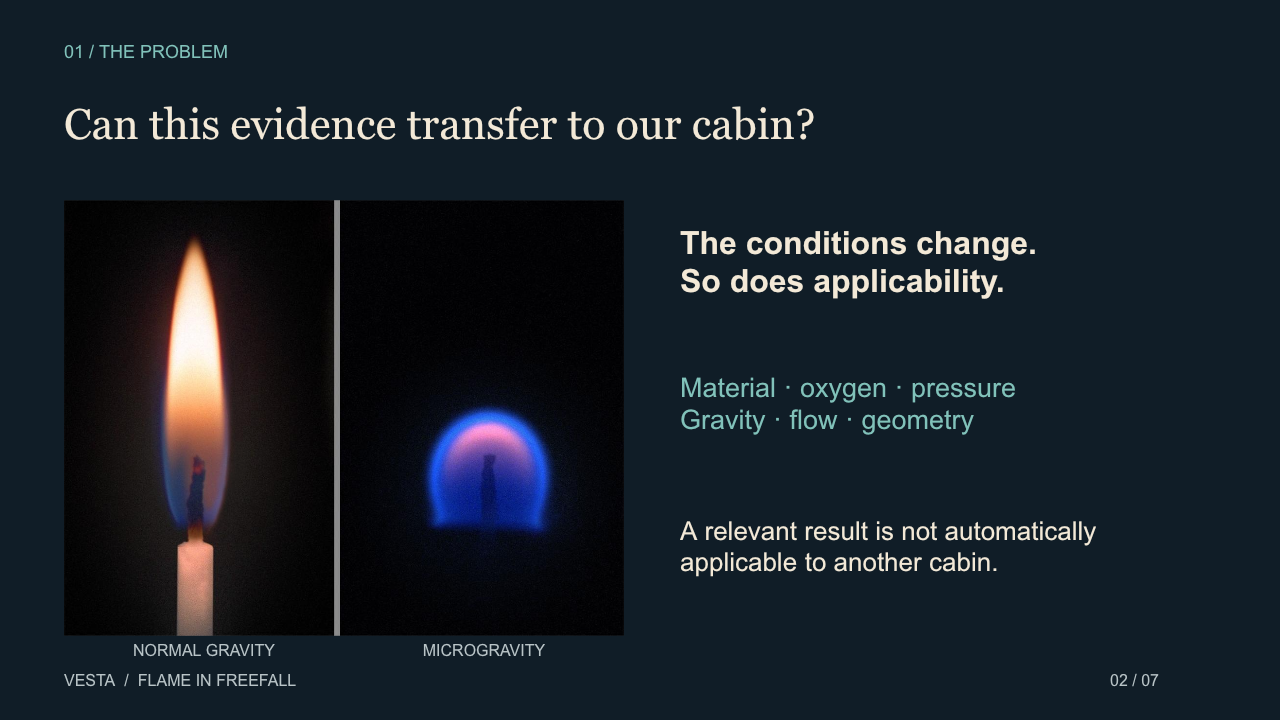
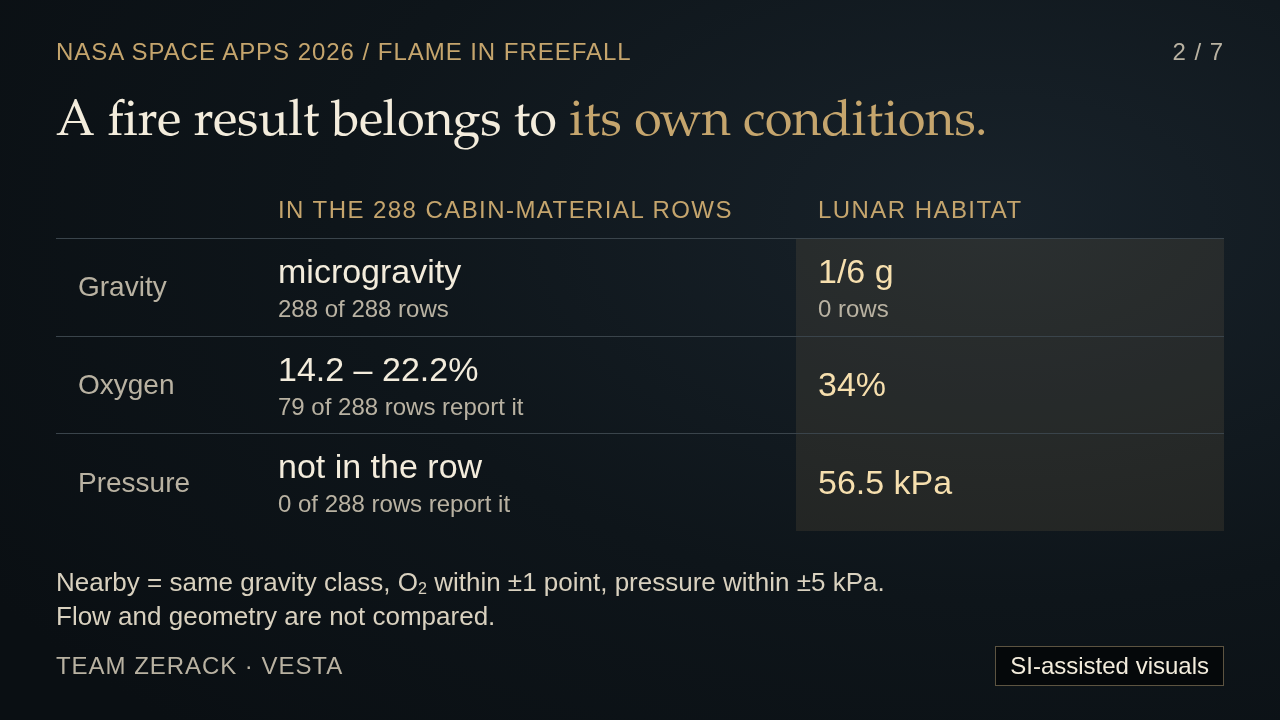
Rebuild the seven-slide deck around the finding, one claim per slide

diff --git a/web/presentation/index.html b/web/presentation/index.html
@@ -1,18 +1,18 @@
 <!doctype html>
 <html lang="en"><head><meta charset="utf-8"><meta name="viewport" content="width=device-width,initial-scale=1"><title>VESTA — seven-slide presentation</title><link rel="stylesheet" href="viewer.css"><script src="viewer.js" defer></script></head>
 <body><a class="skip" href="#slides">Skip to slides</a><header><a href="../">Back to VESTA</a><nav aria-label="Slide navigation"><button type="button" id="previous" aria-controls="slides">Previous</button><output id="count" aria-live="polite" aria-atomic="true">Slide 1 of 7</output><button type="button" id="next" aria-controls="slides">Next</button></nav><button type="button" id="print">Print slides</button></header>
-<main id="slides" tabindex="-1"><section class="slide active" id="slide-1" aria-label="Slide 1: VESTA">
-<img src="vesta-slide-1.png" alt="Slide 1: VESTA" width="1280" height="720" fetchpriority="high" decoding="async">
-<details><summary>Speaker notes and sources — VESTA</summary><p>VESTA asks a practical question: which fire result applies to this cabin? We built a source-linked review tool for NASA Space Apps’ Flame in Freefall challenge. Our contribution is making evidence, condition differences and missing information inspectable. VESTA is a decision-support prototype, not certified flight software. The illustrated mascot is a presentation device, not hardware.</p><h2>Sources</h2><ul><li><a href="https://www.spaceappschallenge.org/2026/challenges/flame-in-freefall/">https://www.spaceappschallenge.org/2026/challenges/flame-in-freefall/</a></li><li><a href="https://itzjk.github.io/vesta/">https://itzjk.github.io/vesta/</a></li></ul></details></section><section class="slide" id="slide-2" aria-label="Slide 2: Can this evidence transfer to our cabin?" hidden>
-<img src="vesta-slide-2.png" alt="Slide 2: Can this evidence transfer to our cabin?" width="1280" height="720" loading="lazy" decoding="async">
-<details><summary>Speaker notes and sources — Can this evidence transfer to our cabin?</summary><p>Spacecraft-fire studies use different materials, atmospheres, gravity levels, flow conditions and geometries. Reduced buoyancy changes combustion, but microgravity flames are not universally spherical or soot-heavy. NASA’s exploration-atmosphere discussion illustrates why lower pressure and higher oxygen require careful review. VESTA helps compare recorded conditions with a selected cabin; apparent relevance alone does not establish applicability or safety.</p><h2>Sources</h2><ul><li><a href="https://ntrs.nasa.gov/citations/20240003211">https://ntrs.nasa.gov/citations/20240003211</a></li><li><a href="https://www.nasa.gov/wp-content/uploads/2025/07/advanced-combustion-via-microgravity-experiments-acme.pdf">https://www.nasa.gov/wp-content/uploads/2025/07/advanced-combustion-via-microgravity-experiments-acme.pdf</a></li><li><a href="https://ntrs.nasa.gov/citations/20150002322">https://ntrs.nasa.gov/citations/20150002322</a></li><li><a href="https://images.nasa.gov/details/GRC-1998-C-00485">https://images.nasa.gov/details/GRC-1998-C-00485</a></li></ul></details></section><section class="slide" id="slide-3" aria-label="Slide 3: One cabin. Traceable evidence." hidden>
-<img src="vesta-slide-3.png" alt="Slide 3: One cabin. Traceable evidence." width="1280" height="720" loading="lazy" decoding="async">
-<details><summary>Speaker notes and sources — One cabin. Traceable evidence.</summary><p>The collection contains 24 investigations, 22 source tables, 1,989 source-table rows and 822 findings. These are different counting units: a row can describe a sample, series or session, so we do not claim 1,989 independent burns. Fifteen indexed materials crossed with prevention, detection and suppression produce 45 coverage questions. Reviewers can filter questions, findings and rows separately.</p><h2>Sources</h2><ul><li><a href="https://github.com/itzjk/vesta/blob/ef31f41d4148da99b2701a2243e31252fc290e0a/web/data/meta.json">https://github.com/itzjk/vesta/blob/ef31f41d4148da99b2701a2243e31252fc290e0a/web/data/meta.json</a></li><li><a href="https://github.com/itzjk/vesta/blob/ef31f41d4148da99b2701a2243e31252fc290e0a/web/js/core/index.js">https://github.com/itzjk/vesta/blob/ef31f41d4148da99b2701a2243e31252fc290e0a/web/js/core/index.js</a></li><li><a href="https://itzjk.github.io/vesta/api/v1/index.json">https://itzjk.github.io/vesta/api/v1/index.json</a></li></ul></details></section><section class="slide" id="slide-4" aria-label="Slide 4: Change gravity. Check the coverage." hidden>
-<img src="vesta-slide-4.png" alt="Slide 4: Change gravity. Check the coverage." width="1280" height="720" loading="lazy" decoding="async">
-<details><summary>Speaker notes and sources — Change gravity. Check the coverage.</summary><p>This demonstration holds oxygen at 21 percent and pressure at 101.4 kilopascals while changing only gravity from microgravity to one-sixth g. Across the same 45 material–concern questions, nearby evidence falls from three to zero; other conditions increase from 21 to 24; no-source questions remain 21. These are reproducible coverage calculations, not measured fire behavior, hazard probabilities or proof that materials are unsafe.</p><h2>Sources</h2><ul><li><a href="https://github.com/itzjk/vesta/blob/ef31f41d4148da99b2701a2243e31252fc290e0a/web/js/core/status.js">https://github.com/itzjk/vesta/blob/ef31f41d4148da99b2701a2243e31252fc290e0a/web/js/core/status.js</a></li><li><a href="https://github.com/itzjk/vesta/blob/ef31f41d4148da99b2701a2243e31252fc290e0a/web/js/core/match.js">https://github.com/itzjk/vesta/blob/ef31f41d4148da99b2701a2243e31252fc290e0a/web/js/core/match.js</a></li></ul></details></section><section class="slide" id="slide-5" aria-label="Slide 5: Every conclusion should be inspectable" hidden>
-<img src="vesta-slide-5.png" alt="Slide 5: Every conclusion should be inspectable" width="1280" height="720" loading="lazy" decoding="async">
-<details><summary>Speaker notes and sources — Every conclusion should be inspectable</summary><p>BASS-II row PSI-25:1 records a 100-micrometre PMMA film and 22.2 percent oxygen. Its pressure column is absent: VESTA identifies 101.3 kilopascals as a facility-based assumption. Separately, quoted finding S-VENT-01 links to the original NASA document and cached text lines 510–514, not PDF pages. A review package preserves the result and context; rechecking establishes computational consistency, not independent scientific validity.</p><h2>Sources</h2><ul><li><a href="https://psi.nasa.gov/physci/repo/data/investigations/PSI-25">https://psi.nasa.gov/physci/repo/data/investigations/PSI-25</a></li><li><a href="https://www.nasa.gov/wp-content/uploads/2016/05/np-2015-10-034-jsc_combustion_in_reduced_gravity-iss-mini-book-011116-508.pdf">https://www.nasa.gov/wp-content/uploads/2016/05/np-2015-10-034-jsc_combustion_in_reduced_gravity-iss-mini-book-011116-508.pdf</a></li><li><a href="https://github.com/itzjk/vesta/blob/c5ca71deb825e97c7eb5b9d9dd3c090a6c660330/research/raw/nasa/researchers-guide-combustion.txt?plain=1#L510-L514">https://github.com/itzjk/vesta/blob/c5ca71deb825e97c7eb5b9d9dd3c090a6c660330/research/raw/nasa/researchers-guide-combustion.txt?plain=1#L510-L514</a></li><li><a href="https://github.com/itzjk/vesta/blob/ef31f41d4148da99b2701a2243e31252fc290e0a/docs/evidence-receipt.md">https://github.com/itzjk/vesta/blob/ef31f41d4148da99b2701a2243e31252fc290e0a/docs/evidence-receipt.md</a></li></ul></details></section><section class="slide" id="slide-6" aria-label="Slide 6: Relevant evidence, with explicit boundaries" hidden>
-<img src="vesta-slide-6.png" alt="Slide 6: Relevant evidence, with explicit boundaries" width="1280" height="720" loading="lazy" decoding="async">
-<details><summary>Speaker notes and sources — Relevant evidence, with explicit boundaries</summary><p>Matching requires the same gravity class, oxygen within one percentage point and pressure within five kilopascals. Flow, geometry, thickness, ignition and suppressant configuration remain outside those matching rules. Missing and inferred conditions stay explicit. Published relevance weights explain ordering, not risk. Quote checks establish text correspondence, not scientific correctness. The website’s analysis roles are deterministic software; its API and MCP tools expose those computations.</p><h2>Sources</h2><ul><li><a href="https://github.com/itzjk/vesta/blob/ef31f41d4148da99b2701a2243e31252fc290e0a/web/js/core/match.js">https://github.com/itzjk/vesta/blob/ef31f41d4148da99b2701a2243e31252fc290e0a/web/js/core/match.js</a></li><li><a href="https://github.com/itzjk/vesta/blob/ef31f41d4148da99b2701a2243e31252fc290e0a/web/js/core/rank.js">https://github.com/itzjk/vesta/blob/ef31f41d4148da99b2701a2243e31252fc290e0a/web/js/core/rank.js</a></li><li><a href="https://github.com/itzjk/vesta/blob/ef31f41d4148da99b2701a2243e31252fc290e0a/mcp/README.md">https://github.com/itzjk/vesta/blob/ef31f41d4148da99b2701a2243e31252fc290e0a/mcp/README.md</a></li></ul></details></section><section class="slide" id="slide-7" aria-label="Slide 7: Evidence before action" hidden>
-<img src="vesta-slide-7.png" alt="Slide 7: Evidence before action" width="1280" height="720" loading="lazy" decoding="async">
-<details><summary>Speaker notes and sources — Evidence before action</summary><p>A separate Claude session selected tools and interpreted real outputs in 12 read-only calls; it is recorded external analysis, not live website AI. Its lunar example uses 34 percent oxygen, 56.5 kilopascals and three materials, distinct from our gravity-only demonstration. The virtual robot concept stages a review kit after human approval. No hardware or sensor is connected. Next steps require domain-expert review and independent validation.</p><h2>Sources</h2><ul><li><a href="https://github.com/itzjk/vesta/blob/ef31f41d4148da99b2701a2243e31252fc290e0a/mcp/README.md">https://github.com/itzjk/vesta/blob/ef31f41d4148da99b2701a2243e31252fc290e0a/mcp/README.md</a></li><li><a href="https://github.com/itzjk/vesta/blob/ef31f41d4148da99b2701a2243e31252fc290e0a/web/js/core/inventory-review.js">https://github.com/itzjk/vesta/blob/ef31f41d4148da99b2701a2243e31252fc290e0a/web/js/core/inventory-review.js</a></li><li><a href="https://github.com/itzjk/vesta">https://github.com/itzjk/vesta</a></li><li><a href="https://itzjk.github.io/vesta/">https://itzjk.github.io/vesta/</a></li></ul></details></section></main><footer>Use Left / Right arrows, Home or End to navigate. Open a slide’s speaker notes for its spoken text and source links.</footer><noscript><p>JavaScript is off. All seven slides are shown below for reading and printing.</p><style>.slide[hidden]{display:block!important}</style></noscript></body></html>
+<main id="slides" tabindex="-1"><section class="slide active" id="slide-1" aria-label="Slide 1: 0 of 45 lunar-habitat fire questions have a NASA test row at nearby conditions">
+<img src="vesta-slide-1.png" alt="Slide 1: VESTA, an evidence-coverage checker. 0 of 45 fire questions for a lunar habitat have a NASA test row at nearby conditions in our collection. 34% O2, 56.5 kPa, 1/6 g; 1,989 rows, none at partial gravity. NASA Space Apps 2026 / Flame in Freefall. Team Zerack. SI-assisted visuals. Illustrated mascot." width="1280" height="720" fetchpriority="high" decoding="async">
+<details><summary>Speaker notes and sources — 0 of 45 lunar-habitat fire questions have a NASA test row at nearby conditions</summary><p>Our finding first. Take NASA’s exploration atmosphere for a lunar habitat: 34 percent oxygen, 56.5 kilopascals, one-sixth g. Ask 45 fire questions, 15 materials times prevention, detection and suppression. In the collection we assembled, none has a NASA test row at nearby conditions: 24 have rows or findings recorded under other conditions and 21 have no source in this collection. All 1,989 source-table rows are microgravity or carry no gravity value; none is partial gravity. VESTA is the tool that makes that count inspectable. The mascot is an illustration.</p><h2>Sources</h2><ul><li><a href="https://www.spaceappschallenge.org/2026/challenges/flame-in-freefall/">https://www.spaceappschallenge.org/2026/challenges/flame-in-freefall/</a></li><li><a href="https://ntrs.nasa.gov/citations/20240003211">https://ntrs.nasa.gov/citations/20240003211</a></li><li><a href="https://github.com/itzjk/vesta/blob/main/web/js/core/status.js">https://github.com/itzjk/vesta/blob/main/web/js/core/status.js</a></li><li><a href="https://itzjk.github.io/vesta/">https://itzjk.github.io/vesta/</a></li></ul></details></section><section class="slide" id="slide-2" aria-label="Slide 2: A fire result belongs to its own conditions" hidden>
+<img src="vesta-slide-2.png" alt="Slide 2: A fire result belongs to its own conditions. In the 288 cabin-material rows versus lunar habitat. Gravity: microgravity in 288 of 288 rows; 1/6 g in 0 rows. Oxygen: 14.2 to 22.2% (79 of 288 rows report it); habitat 34%. Pressure: not in the row (0 of 288 rows report it); habitat 56.5 kPa. Nearby means same gravity class, O2 within plus or minus 1 point, pressure within plus or minus 5 kPa. Flow and geometry are not compared." width="1280" height="720" loading="lazy" decoding="async">
+<details><summary>Speaker notes and sources — A fire result belongs to its own conditions</summary><p>Why a result does not transfer between cabins. This table counts the 288 rows on our 15 cabin materials. All 288 were recorded in microgravity, 79 report oxygen, between 14.2 and 22.2 percent, and none reports a pressure. Across the whole collection, 1,981 of the 1,989 rows are microgravity and the other eight are index lines with no gravity value; rows on other fuels, such as droplets and gases, do report other oxygen levels and pressures. The lunar habitat is 34 percent, 56.5 kilopascals and one-sixth g. VESTA calls a row nearby only when gravity class matches, oxygen is within one percentage point and pressure within five kilopascals; a pressure assumed from the facility counts for that match and is labelled. Flow, geometry, thickness and ignition are not compared.</p><h2>Sources</h2><ul><li><a href="https://ntrs.nasa.gov/citations/20240003211">https://ntrs.nasa.gov/citations/20240003211</a></li><li><a href="https://github.com/itzjk/vesta/blob/main/web/js/core/match.js">https://github.com/itzjk/vesta/blob/main/web/js/core/match.js</a></li><li><a href="https://github.com/itzjk/vesta/blob/main/web/js/core/index.js">https://github.com/itzjk/vesta/blob/main/web/js/core/index.js</a></li></ul></details></section><section class="slide" id="slide-3" aria-label="Slide 3: One collection, every row linked to its source" hidden>
+<img src="vesta-slide-3.png" alt="Slide 3: One collection, every row linked to its source. 24 NASA investigations, 22 source tables, 1,989 source-table rows, 822 quoted findings. A row is one line of a NASA table: 1,866 single tests, 123 test days, series or index lines; not independent experiments. A question is one material times one concern: 15 materials times 3 concerns = 45: prevention, detection, suppression." width="1280" height="720" loading="lazy" decoding="async">
+<details><summary>Speaker notes and sources — One collection, every row linked to its source</summary><p>The collection: 24 NASA Physical Sciences Informatics investigations, 22 source tables, 1,989 source-table rows and 822 findings quoted from NASA documents. Twenty of the investigations contribute table rows; the other four contribute findings only. A row is one line of a NASA table: 1,866 are single tests and 123 are test days, series, sessions, group references or dataset index lines, so rows are not independent experiments. A question is one material and one concern; 15 indexed materials times prevention, detection and suppression gives 45.</p><h2>Sources</h2><ul><li><a href="https://github.com/itzjk/vesta/blob/main/web/data/meta.json">https://github.com/itzjk/vesta/blob/main/web/data/meta.json</a></li><li><a href="https://github.com/itzjk/vesta/blob/main/web/js/core/index.js">https://github.com/itzjk/vesta/blob/main/web/js/core/index.js</a></li><li><a href="https://itzjk.github.io/vesta/api/v1/index.json">https://itzjk.github.io/vesta/api/v1/index.json</a></li></ul></details></section><section class="slide" id="slide-4" aria-label="Slide 4: Change only gravity: questions with a nearby row go 3 to 0" hidden>
+<img src="vesta-slide-4.png" alt="Slide 4: Change only gravity: questions with a nearby row go 3 to 0. Held fixed: 21% O2, 101.4 kPa, same 45 questions. Every row in this collection with a gravity value is microgravity. Bars on one scale. At 0 g: 3 nearby, 21 other conditions, 21 no source in this collection. At 1/6 g: 0 nearby, 24 other conditions, 21 no source in this collection." width="1280" height="720" loading="lazy" decoding="async">
+<details><summary>Speaker notes and sources — Change only gravity: questions with a nearby row go 3 to 0</summary><p>One condition changed. Hold the station atmosphere, 21 percent oxygen and 101.4 kilopascals, and the same 45 questions. In microgravity, three questions have nearby rows, 21 have evidence under other conditions and 21 have no source in this collection. Switch only gravity to one-sixth g: nearby goes to zero, other conditions to 24, no source stays at 21. That is a property of the collection, not of lunar gravity: every row with a gravity value is microgravity, so any other gravity, one g included, also gives zero. This is a count of evidence coverage, not a measurement of fire behavior.</p><h2>Sources</h2><ul><li><a href="https://github.com/itzjk/vesta/blob/main/web/js/core/status.js">https://github.com/itzjk/vesta/blob/main/web/js/core/status.js</a></li><li><a href="https://github.com/itzjk/vesta/blob/main/web/js/core/match.js">https://github.com/itzjk/vesta/blob/main/web/js/core/match.js</a></li></ul></details></section><section class="slide" id="slide-5" aria-label="Slide 5: One real NASA row: the pressure is not in the table" hidden>
+<img src="vesta-slide-5.png" alt="Slide 5: One real NASA row: the pressure is not in the table. Cropped app capture of row PSI-25:1, BASS-II: fuel PMMA, oxygen 22.2% O2, oxygen basis ambient, pressure not in the table (outlined), gravity microgravity, airflow not in the table, and the line: Pressure is not reported in the table. The facility-based inference is 14.7 psia (101.3 kPa). PMMA film, 22.2% O2, microgravity. Pressure: not in the table; 101.3 kPa assumed from a NASA facility guide, and labelled so. Station case (slide 4): all 24 nearby row matches behind those 3 questions rest on that assumption." width="1280" height="720" loading="lazy" decoding="async">
+<details><summary>Speaker notes and sources — One real NASA row: the pressure is not in the table</summary><p>One real record. BASS-II row PSI-25:1 is a 100-micrometre PMMA film at 22.2 percent oxygen in microgravity. Its table has no pressure column. VESTA shows 101.3 kilopascals as an assumption taken from NASA’s Researcher’s Guide to Combustion Science, which describes the glovebox as nominally one atmosphere, and quotes that sentence. The three station questions with nearby evidence rest on 24 row matches, PMMA 16, SIBAL 6 and Nomex 2, and all 24 depend on that same assumed pressure; none reports it in the row.</p><h2>Sources</h2><ul><li><a href="https://psi.nasa.gov/physci/repo/data/investigations/PSI-25">https://psi.nasa.gov/physci/repo/data/investigations/PSI-25</a></li><li><a href="https://www.nasa.gov/wp-content/uploads/2016/05/np-2015-10-034-jsc_combustion_in_reduced_gravity-iss-mini-book-011116-508.pdf">https://www.nasa.gov/wp-content/uploads/2016/05/np-2015-10-034-jsc_combustion_in_reduced_gravity-iss-mini-book-011116-508.pdf</a></li><li><a href="https://github.com/itzjk/vesta/blob/main/web/js/core/assumption-audit.js">https://github.com/itzjk/vesta/blob/main/web/js/core/assumption-audit.js</a></li></ul></details></section><section class="slide" id="slide-6" aria-label="Slide 6: A virtual robot acts only after a person approves" hidden>
+<img src="vesta-slide-6.png" alt="Slide 6: A virtual robot acts only after a person approves. Two crops of one app capture, showing the completed state after approval: the review panel (PMMA prevention, evidence other conditions, 90 indexed rows, 0 nearby, review package ready, virtual kit staged) and the simulated robot with a PMMA review kit. 1. The review finds a gap: PMMA prevention, 0 of 90 rows nearby. 2. A person approves the virtual staging. 3. The handoff package (question + source rows) is saved for crew review. Simulation: no hardware, sensors or autonomy." width="1280" height="720" loading="lazy" decoding="async">
+<details><summary>Speaker notes and sources — A virtual robot acts only after a person approves</summary><p>How the gap becomes a task. For the lunar habitat, PMMA prevention has 90 indexed rows and none nearby. VESTA proposes a staging plan; nothing moves until a person gives explicit approval, and a reset or changed input revokes it. The virtual robot then stages a review kit, and the handoff package, the question and its source rows, is saved for crew review; it does not authorize crew work. The capture shows the completed state, after approval. This is a simulation: no hardware, no sensors and no autonomy are connected, and the evidence is unchanged by it.</p><h2>Sources</h2><ul><li><a href="https://github.com/itzjk/vesta/blob/main/web/js/world/kit-mission.js">https://github.com/itzjk/vesta/blob/main/web/js/world/kit-mission.js</a></li><li><a href="https://github.com/itzjk/vesta/blob/main/web/js/core/inventory-review.js">https://github.com/itzjk/vesta/blob/main/web/js/core/inventory-review.js</a></li></ul></details></section><section class="slide" id="slide-7" aria-label="Slide 7: Recompute every number. Know the limits" hidden>
+<img src="vesta-slide-7.png" alt="Slide 7: Recompute every number. Know the limits. Reproducible: open data, open code; every row opens its NASA table line; Claude review: a recording of 12 read-only calls, not a live model. Limits: evidence coverage, not fire behavior; no source = absent from this collection; k-NN outcome vote: 134/212 vs 143/212 baseline, no advantage. itzjk.github.io/vesta and github.com/itzjk/vesta." width="1280" height="720" loading="lazy" decoding="async">
+<details><summary>Speaker notes and sources — Recompute every number. Know the limits</summary><p>Every count on these slides recomputes from the public data with the open code; the website calls no AI model at runtime. A separate, external Claude session made 12 read-only tool calls to VESTA’s local MCP server over the public data; we publish the recording and its replay check, not a live model. Limits: this is evidence coverage, not fire behavior; no source means absent from this collection; our k-nearest-neighbour outcome vote for the FLEX table, which runs in the browser, scores 134 of 212 against a 143 of 212 majority baseline, so it shows no predictive advantage. Next: review by domain experts.</p><h2>Sources</h2><ul><li><a href="https://github.com/itzjk/vesta/blob/main/mcp/README.md">https://github.com/itzjk/vesta/blob/main/mcp/README.md</a></li><li><a href="https://github.com/itzjk/vesta/blob/main/web/data/claude-review.json">https://github.com/itzjk/vesta/blob/main/web/data/claude-review.json</a></li><li><a href="https://github.com/itzjk/vesta">https://github.com/itzjk/vesta</a></li><li><a href="https://itzjk.github.io/vesta/">https://itzjk.github.io/vesta/</a></li></ul></details></section></main><footer>Use Left / Right arrows, Home or End to navigate. Open a slide’s speaker notes for its spoken text and source links.</footer><noscript><p>JavaScript is off. All seven slides are shown below for reading and printing.</p><style>.slide[hidden]{display:block!important}</style></noscript></body></html>

diff --git a/web/presentation/src/slides.html b/web/presentation/src/slides.html
@@ -1,0 +1,191 @@
+<!doctype html>
+<html lang="en"><head><meta charset="utf-8"><title>VESTA — slide sources (seven 1280×720 sections)</title>
+<style>
+/* Source of vesta-slide-1..7.png. Each <section> is one 1280x720 slide. No web fonts, no external requests.
+   Every number is recomputed from web/data with web/js/core (see the speaker notes in ../index.html). */
+*{box-sizing:border-box;margin:0;padding:0}
+html{background:#05080a}
+body{width:1280px;font-family:Arial,"Liberation Sans",Helvetica,sans-serif;color:#f3ecdc}
+.s{position:relative;width:1280px;height:720px;overflow:hidden;background:radial-gradient(1200px 700px at 78% 30%,#18222a 0%,#0e151a 55%,#0a0f13 100%)}
+.top,.bot{position:absolute;left:56px;right:56px;display:flex;justify-content:space-between;align-items:center;font-size:24px;line-height:1;letter-spacing:.04em;color:#c5a56d;white-space:nowrap}
+.top{top:40px}.bot{bottom:34px;color:#b9b2a2}
+.si{font-size:24px;letter-spacing:0;color:#f3ecdc;background:#05080a;border:1px solid #5d5441;padding:7px 14px}
+.n{color:#b9b2a2}
+h1{position:absolute;left:56px;right:56px;top:96px;font-family:Georgia,"P052","Liberation Serif",serif;font-weight:400;font-size:50px;line-height:1.14;color:#f3ecdc}
+h1 b{font-weight:400;color:#c5a56d}
+.nw{white-space:nowrap}
+.serif{font-family:Georgia,"P052","Liberation Serif",serif}
+.amber{color:#c5a56d}.muted{color:#b9b2a2}
+.body{position:absolute;left:56px;right:56px}
+sub{font-size:.62em;vertical-align:-.18em;line-height:0}
+
+/* 1 */
+#s1{background:radial-gradient(900px 620px at 76% 48%,#1c1611 0%,#120e0b 55%,#0b0907 100%)}
+#s1 .word{position:absolute;left:56px;top:100px;font-size:38px;letter-spacing:.3em;color:#c5a56d;white-space:nowrap}
+#s1 .word span{font-family:Arial,"Liberation Sans",Helvetica,sans-serif;font-size:24px;letter-spacing:.04em;color:#b9b2a2;margin-left:10px}
+#s1 .big{position:absolute;left:50px;top:156px;font-size:228px;line-height:.98;white-space:nowrap}
+#s1 .big span{font-size:112px;color:#f3ecdc}#s1 .big .z{font-size:228px;color:#c5a56d}
+#s1 .claim{position:absolute;left:56px;top:404px;width:700px;font-size:41px;line-height:1.2}
+#s1 .cond{position:absolute;left:56px;top:574px;font-size:26px;color:#d9d1bf;white-space:nowrap}
+#s1 img{position:absolute;left:742px;top:106px;width:520px;height:485px;-webkit-mask-image:radial-gradient(closest-side,#000 68%,transparent 100%);mask-image:radial-gradient(closest-side,#000 68%,transparent 100%)}
+
+/* 2 */
+.cmp{position:absolute;left:56px;right:56px;top:196px;border-collapse:collapse;width:1168px;font-size:34px}
+.cmp th{font-size:24px;font-weight:400;letter-spacing:.06em;text-align:left;color:#c5a56d;padding:0 22px 14px}
+.cmp td{padding:13px 22px;border-top:1px solid #3a444b;vertical-align:middle;line-height:1.15}
+.cmp td:first-child{color:#b9b2a2;font-size:28px;width:200px}
+.cmp td:nth-child(2){width:540px}
+.cmp td:nth-child(3){background:rgba(197,165,109,.11);color:#f6dfae}
+.cmp small{display:block;font-size:24px;color:#b9b2a2;margin-top:4px}
+#s2 .rule{top:566px;font-size:26px;line-height:1.3;color:#d9d1bf}
+
+/* 3 */
+.nums{position:absolute;left:56px;right:56px;top:196px;display:flex;justify-content:space-between}
+.nums div{font-size:28px;color:#b9b2a2;line-height:1.2}
+.nums b{display:block;font-family:Georgia,"P052","Liberation Serif",serif;font-weight:400;font-size:104px;line-height:1;color:#f3ecdc;margin-bottom:8px}
+.nums .hot b{color:#c5a56d}
+.defs{top:402px;display:grid;grid-template-columns:1fr 1fr;gap:28px}
+.card{border:1px solid #4a4638;background:rgba(5,8,10,.55);padding:24px 28px;font-size:28px;line-height:1.3}
+.card .k{display:block;font-size:24px;letter-spacing:.06em;color:#c5a56d;margin-bottom:10px}
+.card em{font-style:normal;color:#b9b2a2}
+
+/* 4 */
+#s4 .fixed{top:226px;font-size:26px;line-height:1.3;color:#d9d1bf}
+.bars{position:absolute;left:56px;top:312px;width:1168px}
+.row{display:flex;align-items:center;margin-bottom:26px}
+.row .g{width:168px;font-size:34px}
+.row .g.short{width:100px}
+.bar{display:flex;width:1000px;height:92px}
+.bar div{display:flex;align-items:center;justify-content:center;font-size:44px;font-family:Georgia,"P052","Liberation Serif",serif;border-right:3px solid #0e151a}
+.near{background:#f3ecdc;color:#12171b}
+.other{background:#c5a56d;color:#16120a}
+.none{background:#27333b;color:#f3ecdc;border:1px solid #56646d}
+.zero{width:60px;height:92px;display:flex;align-items:center;justify-content:center;font-size:44px;font-family:Georgia,"P052","Liberation Serif",serif;color:#f3ecdc;border:2px dashed #f3ecdc;margin-right:8px}
+.legend{position:absolute;left:224px;top:566px;display:flex;gap:44px;font-size:26px;color:#d9d1bf;white-space:nowrap}
+.legend i{display:inline-block;width:24px;height:24px;margin-right:12px;vertical-align:-3px}
+
+/* 5, 6 */
+.shot{position:absolute;overflow:hidden;border:1px solid #6b5f45;background:#0b1013}
+.shot img{position:absolute;display:block;max-width:none}
+.side{position:absolute;font-size:30px;line-height:1.28}
+.side .k{display:block;font-size:24px;letter-spacing:.06em;color:#c5a56d;margin-bottom:6px}
+.side p{margin-bottom:22px}
+.side .q{color:#f6dfae}
+.steps{list-style:none;counter-reset:st}
+.steps li{counter-increment:st;position:relative;padding-left:58px;margin-bottom:24px;font-size:30px;line-height:1.25}
+.steps li::before{content:counter(st);position:absolute;left:0;top:-2px;width:40px;height:40px;border:1px solid #c5a56d;color:#c5a56d;font-size:26px;line-height:38px;text-align:center}
+.shot .mark{position:absolute;border:3px solid #e0a53a}
+.cap{position:absolute;font-size:24px;color:#b9b2a2}
+#s5 .side,#s6 .steps li{font-size:26px}
+.tag{display:inline-block;font-size:24px;line-height:1.3;color:#f3ecdc;border:1px solid #c5a56d;padding:10px 16px}
+
+/* 7 */
+.cols{top:196px;display:grid;grid-template-columns:1fr 1fr;gap:28px}
+.cols .card{font-size:30px;line-height:1.26;padding:24px 28px}
+.cols li{list-style:none;position:relative;padding-left:28px;margin-bottom:16px}
+.cols li::before{content:"";position:absolute;left:0;top:14px;width:10px;height:10px;background:#c5a56d}
+.links{top:572px;display:flex;gap:56px;font-size:34px;color:#f6dfae;white-space:nowrap}
+.links span{border-bottom:2px solid #c5a56d;padding-bottom:3px}
+</style></head><body>
+
+<section class="s" id="s1">
+  <div class="top"><span>NASA SPACE APPS 2026 / FLAME IN FREEFALL</span><span class="n">1 / 7</span></div>
+  <div class="word serif">VESTA<span>an evidence-coverage checker</span></div>
+  <div class="big serif"><span class="z">0</span><span> of 45</span></div>
+  <p class="claim serif">fire questions for a lunar habitat have a NASA test row at nearby conditions in our collection.</p>
+  <p class="cond">34% O<sub>2</sub> · 56.5 kPa · 1/6 g &nbsp;—&nbsp; 1,989 rows, none at partial gravity</p>
+  <img src="../vesta-mascot.png" alt="">
+  <div class="bot"><span>TEAM ZERACK</span><span class="si">SI-assisted visuals</span></div>
+</section>
+
+<section class="s" id="s2">
+  <div class="top"><span>NASA SPACE APPS 2026 / FLAME IN FREEFALL</span><span class="n">2 / 7</span></div>
+  <h1>A fire result belongs to <b>its own conditions.</b></h1>
+  <table class="cmp">
+    <tr><th></th><th>IN THE 288 CABIN-MATERIAL ROWS</th><th>LUNAR HABITAT</th></tr>
+    <tr><td>Gravity</td><td>microgravity<small>288 of 288 rows</small></td><td>1/6 g<small>0 rows</small></td></tr>
+    <tr><td>Oxygen</td><td>14.2 – 22.2%<small>79 of 288 rows report it</small></td><td>34%</td></tr>
+    <tr><td>Pressure</td><td>not in the row<small>0 of 288 rows report it</small></td><td>56.5 kPa</td></tr>
+  </table>
+  <p class="body rule">Nearby = same gravity class, O<sub>2</sub> within ±1 point, pressure within ±5 kPa.<br>Flow and geometry are not compared.</p>
+  <div class="bot"><span>TEAM ZERACK · VESTA</span><span class="si">SI-assisted visuals</span></div>
+</section>
+
+<section class="s" id="s3">
+  <div class="top"><span>NASA SPACE APPS 2026 / FLAME IN FREEFALL</span><span class="n">3 / 7</span></div>
+  <h1>One collection, <b>every row linked to its source.</b></h1>
+  <div class="nums">
+    <div><b>24</b>NASA investigations</div>
+    <div><b>22</b>source tables</div>
+    <div class="hot"><b>1,989</b>source-table rows</div>
+    <div><b>822</b>quoted findings</div>
+  </div>
+  <div class="body defs">
+    <div class="card"><span class="k">A ROW IS</span>one line of a NASA table: 1,866 single tests, 123 test days, series or index lines. <em>Not independent experiments.</em></div>
+    <div class="card"><span class="k">A QUESTION IS</span>one material × one concern. 15 materials × 3 concerns = 45: prevention, detection, suppression.</div>
+  </div>
+  <div class="bot"><span>TEAM ZERACK · VESTA</span><span class="si">SI-assisted visuals</span></div>
+</section>
+
+<section class="s" id="s4">
+  <div class="top"><span>NASA SPACE APPS 2026 / FLAME IN FREEFALL</span><span class="n">4 / 7</span></div>
+  <h1>Change only gravity: questions with a nearby row <b class="nw">go 3 → 0.</b></h1>
+  <p class="body fixed">Held fixed: 21% O<sub>2</sub> · 101.4 kPa · same 45 questions.<br>Every row in this collection with a gravity value is microgravity.</p>
+  <div class="bars">
+    <div class="row"><div class="g">0 g</div><div class="bar"><div class="near" style="width:66.7px">3</div><div class="other" style="width:466.7px">21</div><div class="none" style="width:466.6px">21</div></div></div>
+    <div class="row"><div class="g short">1/6 g</div><div class="zero">0</div><div class="bar"><div class="other" style="width:533.4px">24</div><div class="none" style="width:466.6px">21</div></div></div>
+  </div>
+  <div class="legend"><span><i style="background:#f3ecdc"></i>nearby (dashed 0 = none)</span><span><i style="background:#c5a56d"></i>other conditions</span><span><i style="background:#27333b;border:1px solid #56646d"></i>no source in this collection</span></div>
+  <div class="bot"><span>TEAM ZERACK · VESTA</span><span class="si">SI-assisted visuals</span></div>
+</section>
+
+<section class="s" id="s5">
+  <div class="top"><span>NASA SPACE APPS 2026 / FLAME IN FREEFALL</span><span class="n">5 / 7</span></div>
+  <h1>One real NASA row: <b>the pressure is not in the table.</b></h1>
+  <div class="shot" style="left:56px;top:176px;width:918px;height:316px"><img src="../capture-source-row.jpg" alt="" style="width:1728px;left:-227px;top:-362px"><div class="mark" style="left:4px;top:130px;width:640px;height:42px"></div></div>
+  <div class="side" style="left:998px;top:176px;width:226px">
+    <p style="margin-bottom:0"><span class="k">ROW PSI-25:1 BASS-II</span><span class="nw">PMMA film ·</span> <span class="nw">22.2% O<sub>2</sub> ·</span> microgravity</p>
+  </div>
+  <div class="side" style="left:56px;top:512px;width:570px">
+    <p style="margin-bottom:0"><span class="k">PRESSURE</span>Not in the table. <span class="q">101.3 kPa assumed</span> from a NASA facility guide, and labelled so.</p>
+  </div>
+  <div class="side" style="left:654px;top:512px;width:570px">
+    <p style="margin-bottom:0"><span class="k">STATION CASE (SLIDE 4)</span>All 24 nearby row matches behind those 3 questions rest on that assumption.</p>
+  </div>
+  <div class="bot"><span>TEAM ZERACK · VESTA</span><span class="si">SI-assisted visuals</span></div>
+</section>
+
+<section class="s" id="s6">
+  <div class="top"><span>NASA SPACE APPS 2026 / FLAME IN FREEFALL</span><span class="n">6 / 7</span></div>
+  <h1>A virtual robot acts <b>only after a person approves.</b></h1>
+  <div class="shot" style="left:56px;top:176px;width:507px;height:409px"><img src="../capture-robot-handoff.jpg" alt="" style="width:1856px;left:-32px;top:-160px"></div>
+  <div class="shot" style="left:573px;top:176px;width:225px;height:409px"><img src="../capture-robot-handoff.jpg" alt="" style="width:1856px;left:-623px;top:-275px"></div>
+  <p class="cap" style="left:56px;top:598px">App capture: the completed state, after approval.</p>
+  <div class="side" style="left:822px;top:176px;width:402px">
+    <ol class="steps">
+      <li>The review finds a gap: PMMA prevention, 0 of 90 rows nearby.</li>
+      <li>A person approves the virtual staging.</li>
+      <li>The handoff package (question + source rows) is saved for crew review.</li>
+    </ol>
+    <span class="tag">Simulation: no hardware, sensors or autonomy</span>
+  </div>
+  <div class="bot"><span>TEAM ZERACK · VESTA</span><span class="si">SI-assisted visuals</span></div>
+</section>
+
+<section class="s" id="s7">
+  <div class="top"><span>NASA SPACE APPS 2026 / FLAME IN FREEFALL</span><span class="n">7 / 7</span></div>
+  <h1>Recompute every number. <b>Know the limits.</b></h1>
+  <div class="body cols">
+    <div class="card"><span class="k">REPRODUCIBLE</span><ul>
+      <li>Open data, open code.</li>
+      <li>Every row opens its NASA table line.</li>
+      <li>Claude review: a recording of 12 read-only calls, not a live model.</li></ul></div>
+    <div class="card"><span class="k">LIMITS</span><ul>
+      <li>Evidence coverage, not fire behavior.</li>
+      <li>“No source” = absent from this collection.</li>
+      <li>k-NN outcome vote: 134/212 vs 143/212 baseline. No advantage.</li></ul></div>
+  </div>
+  <div class="body links"><span>itzjk.github.io/vesta</span><span>github.com/itzjk/vesta</span></div>
+  <div class="bot"><span>TEAM ZERACK · VESTA</span><span class="si">SI-assisted visuals</span></div>
+</section>
+</body></html>
